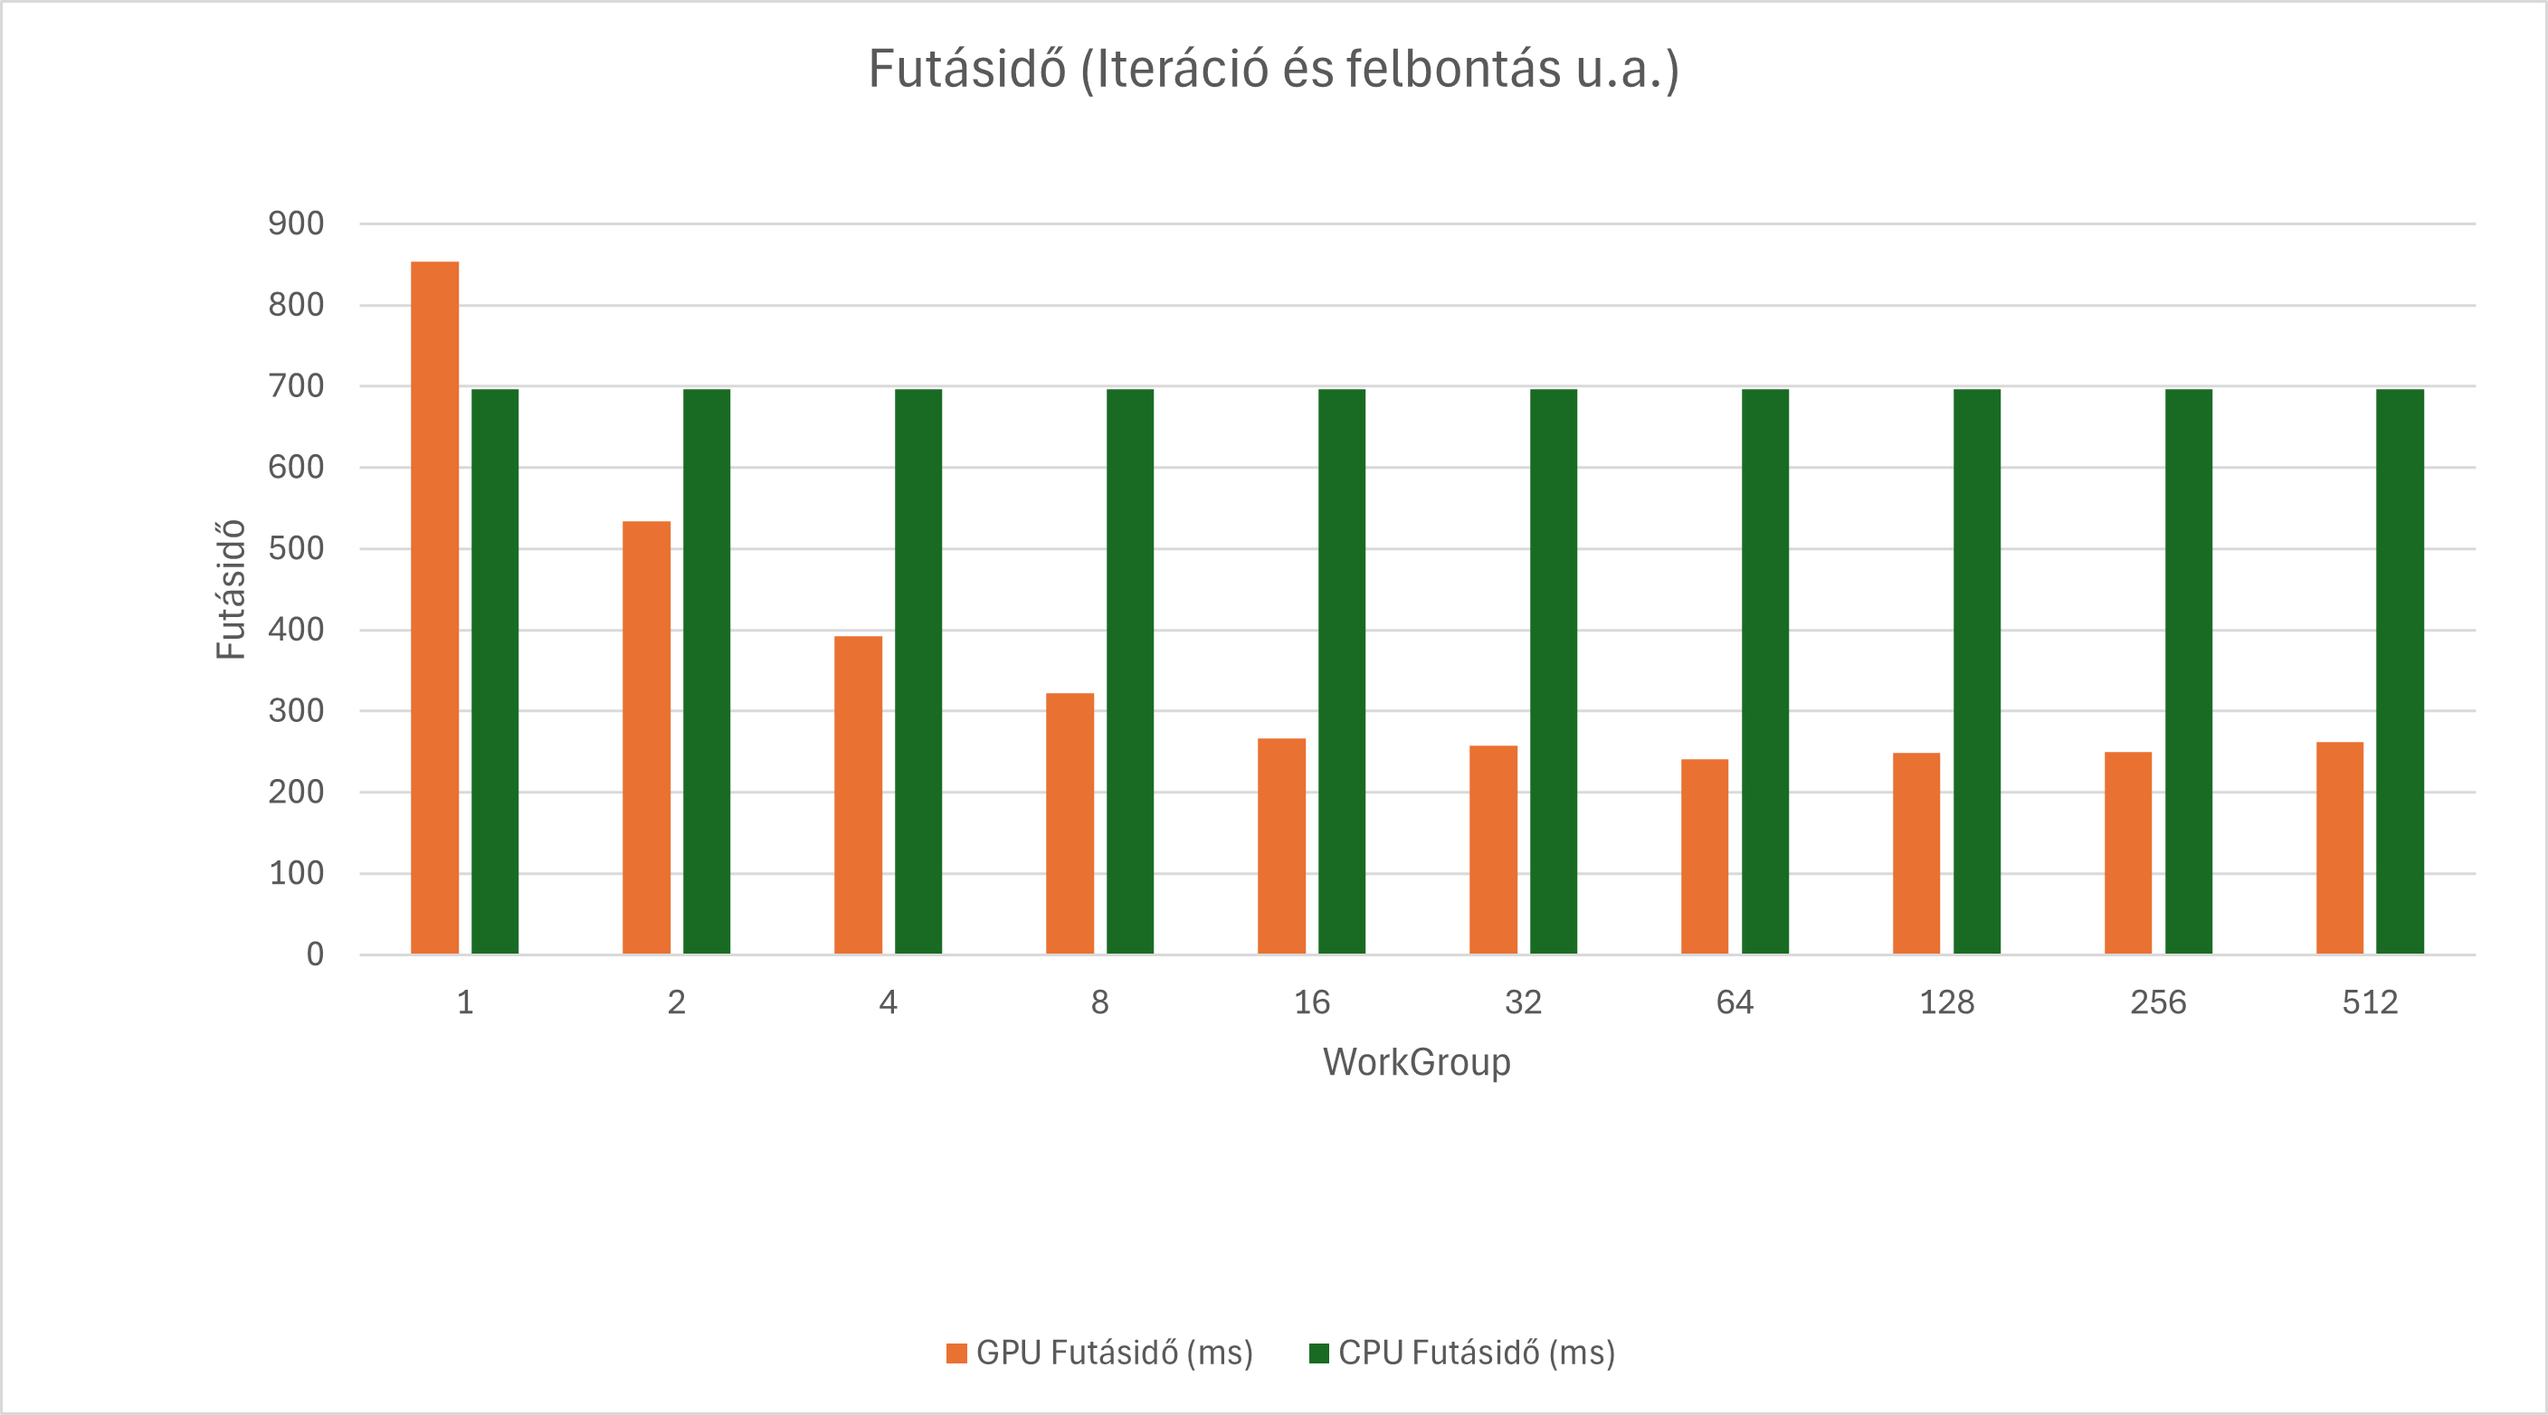
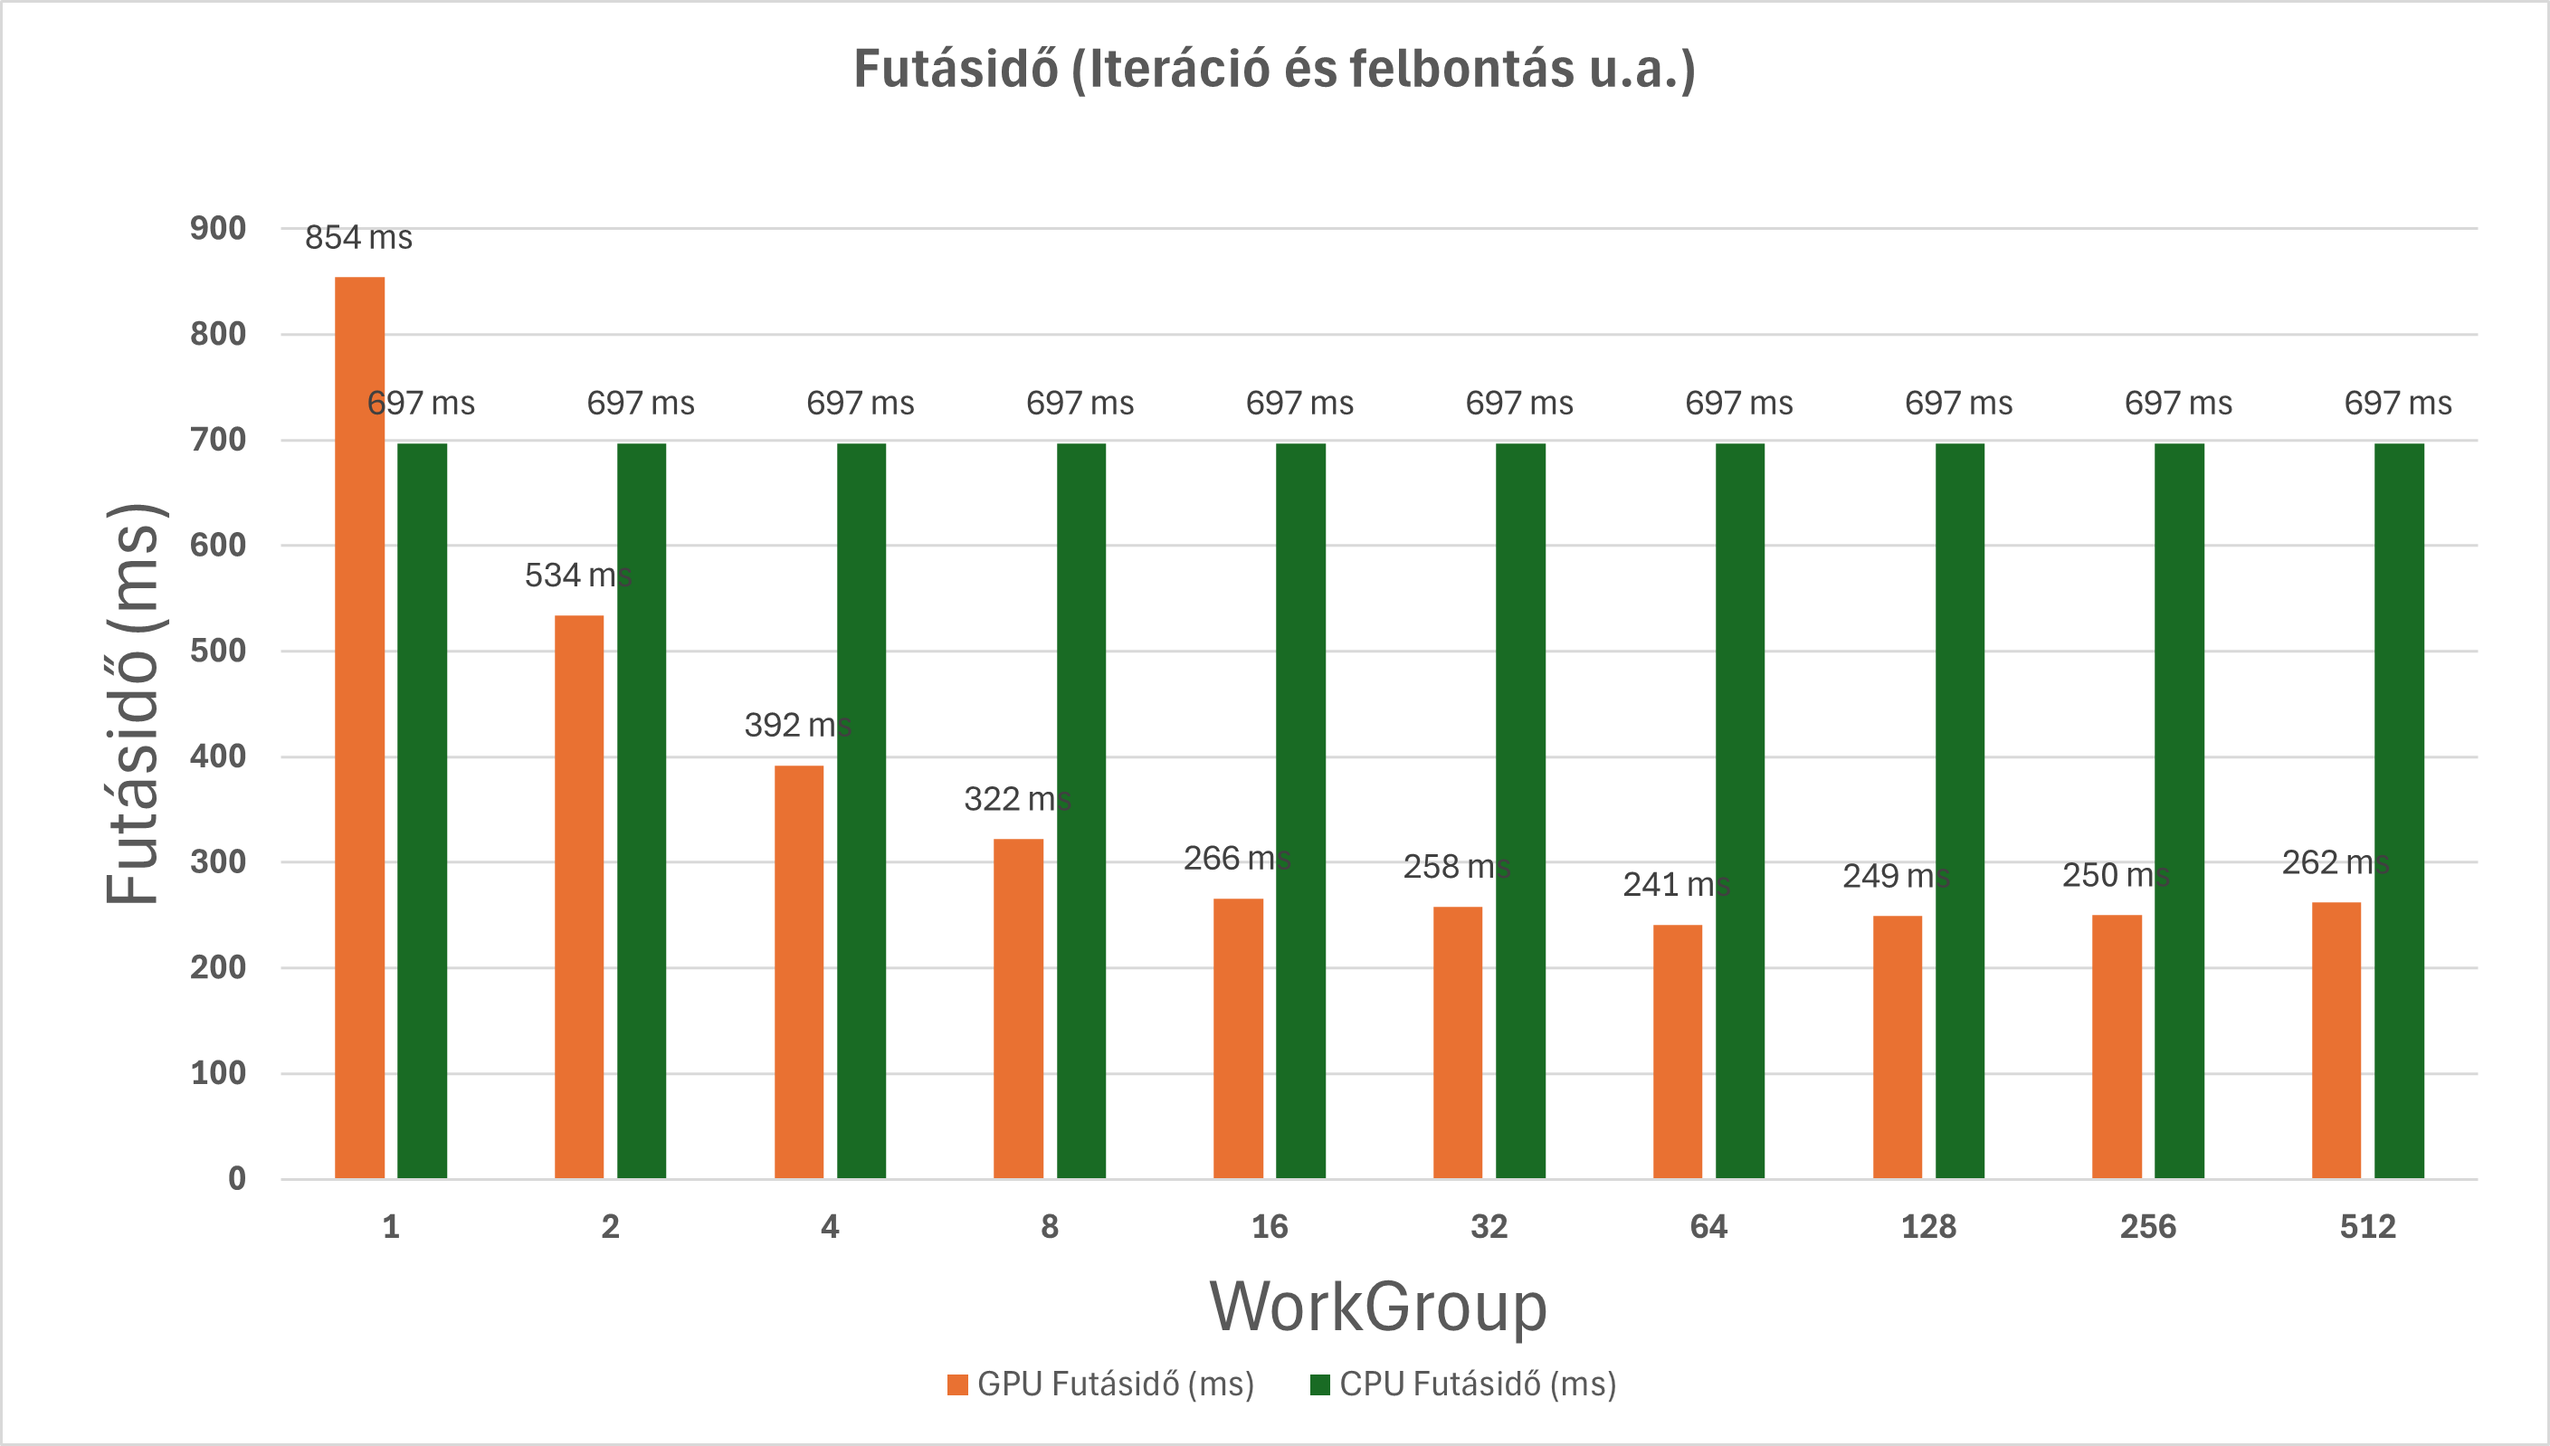
- readme fix, diagram fix

diff --git a/README.md b/README.md
@@ -16,61 +16,67 @@ C#-ban készült Mandelbrot-halmazon alapuló képgenerálás a választott fela
  **2048x1024 felbontásra: ~ 697 ms (ez az átlag marad végig amikor az iterációt és felbontást u.a. hagyjuk)** 
 
 
-**Iteráció és felbontás u.a.**			
-WorkerGroup  Iteráció  Felbontás   Futásidő (ms)  Szekvenciális (ms)  Gyorsítás (ms)  Gyorsítás (%)
-1            500       2048x1024   854            697                  -157            -22.53%
-2            500       2048x1024   534            697                   163             23.39%
-4            500       2048x1024   392            697                   305             43.76%
-8            500       2048x1024   322            697                   375             53.80%
-16           500       2048x1024   266            697                   431             61.84%
-32           500       2048x1024   258            697                   439             63.00%
-64           500       2048x1024   241            697                   456             65.42%
-128          500       2048x1024   249            697                   448             64.27%
-256          500       2048x1024   250            697                   447             64.13%
-512          500       2048x1024   262            697                   435             62.41%
+**Iteráció és felbontás u.a.**
+
+| WorkerGroup | Iteráció | Felbontás     | Futásidő (ms) | Szekvenciális (ms) | Gyorsítás (ms) | Gyorsítás (%) |
+|-------------|----------|---------------|---------------|---------------------|----------------|---------------|
+| 1           | 500      | 2048x1024     | 854           | 697                 | -157           | -22.53%       |
+| 2           | 500      | 2048x1024     | 534           | 697                 | 163            | 23.39%        |
+| 4           | 500      | 2048x1024     | 392           | 697                 | 305            | 43.76%        |
+| 8           | 500      | 2048x1024     | 322           | 697                 | 375            | 53.80%        |
+| 16          | 500      | 2048x1024     | 266           | 697                 | 431            | 61.84%        |
+| 32          | 500      | 2048x1024     | 258           | 697                 | 439            | 63.00%        |
+| 64          | 500      | 2048x1024     | 241           | 697                 | 456            | 65.42%        |
+| 128         | 500      | 2048x1024     | 249           | 697                 | 448            | 64.27%        |
+| 256         | 500      | 2048x1024     | 250           | 697                 | 447            | 64.13%        |
+| 512         | 500      | 2048x1024     | 262           | 697                 | 435            | 62.41%        |
 
 Ha a WorkerGroup méretét növeljük és az iterációt, felbontást ugyanakkorára hagyjuk akkor látható, hogy a futásidő fokozatosan csökken. mindaddig amíg a group mérete nem kezd el túl nagy lenni. Érdemes megjegyezni,  hogy szekvenciális (CPU) futtatáshoz képest a GPU-s megoldás jelentős gyorsulást ad, mivel a pixelek számítása egymás után helyett párhuzamosan történik. Ez különösen a Mandelbrot esetében hatékony, mert minden pixel számítása független a többitől.
 
-![Futásidő (Iteráció és felbontás u.a.) oszlopdiagramm](beadando\mandelbrot\meas_images\meas1_1.png)
-![Futásidő (Iteráció és felbontás u.a.) vonaldiagramm](beadando\mandelbrot\meas_images\meas1_2.png)
+![Futásidő (Iteráció és felbontás u.a.) oszlopdiagramm](beadando/mandelbrot/meas_images/meas1_1.png)
+![Futásidő (Iteráció és felbontás u.a.) vonaldiagramm](beadando/mandelbrot/meas_images/meas1_2.png)
 
-**Felbontás és a workerGroup u.a.**			
-WorkerGroup  Iteráció  Felbontás   Futásidő (ms)  Szekvenciális (ms)  Gyorsítás (ms)  Gyorsítás (%)
-128          50        2048x1024   252            117                  -135            -115.38%
-128          100       2048x1024   246            174                  -72             -41.38%
-128          200       2048x1024   239            320                   81              25.31%
-128          300       2048x1024   229            436                   207             47.48%
-128          500       2048x1024   248            666                   418             62.76%
-128          800       2048x1024   290            1016                  726             71.46%
-128          1000      2048x1024   296            1251                  955             76.34%
-128          1500      2048x1024   308            1848                  1540            83.35%
-128          2000      2048x1024   312            2467                  2155            87.38%
-128          2500      2048x1024   351            3078                  2727            88.63%
+**Felbontás és a workerGroup u.a.**	
+
+| WorkerGroup | Iteráció | Felbontás   | Futásidő (ms) | Szekvenciális (ms) | Gyorsítás (ms) | Gyorsítás (%) |
+|-------------|----------|-------------|---------------|---------------------|----------------|---------------|
+| 128         | 50       | 2048x1024   | 252           | 117                 | -135           | -115.38%      |
+| 128         | 100      | 2048x1024   | 246           | 174                 | -72            | -41.38%       |
+| 128         | 200      | 2048x1024   | 239           | 320                 | 81             | 25.31%        |
+| 128         | 300      | 2048x1024   | 229           | 436                 | 207            | 47.48%        |
+| 128         | 500      | 2048x1024   | 248           | 666                 | 418            | 62.76%        |
+| 128         | 800      | 2048x1024   | 290           | 1016                | 726            | 71.46%        |
+| 128         | 1000     | 2048x1024   | 296           | 1251                | 955            | 76.34%        |
+| 128         | 1500     | 2048x1024   | 308           | 1848                | 1540           | 83.35%        |
+| 128         | 2000     | 2048x1024   | 312           | 2467                | 2155           | 87.38%        |
+| 128         | 2500     | 2048x1024   | 351           | 3078                | 2727           | 88.63%        |
 
 Ha a WorkerGroup mérete és a felbontás ugyanakkora és az iterációt növeljük akkor látható hogy ameddig az iteráció nem túl nagy számú, addig gyorsul a futásidő, de ha már túl nagy lesz fokozatosan növekszik egyre jobban. Ez azért is megfigyelhető, mert a szekvenciális futásidő az iteráció növekedésével folyamatosan és jelentősen emelkedik.
 A párhuzamos megoldás ezzel szemben kevésbé érzékeny az iteráció növekedésére, ezért nagyobb iterációszámnál egyre nagyobb különbség alakul ki a szekvenciális és a párhuzamos végrehajtás között.
 
-![Futásidő (Felbontás és a workerGroup u.a.) oszlopdiagramm](beadando\mandelbrot\meas_images\meas2_1.png)
-![Futásidő (Felbontás és a workerGroup u.a.) vonaldiagramm](beadando\mandelbrot\meas_images\meas2_2.png)
+![Futásidő (Felbontás és a workerGroup u.a.) oszlopdiagramm](beadando/mandelbrot/meas_images/meas2_1.png)
+![Futásidő (Felbontás és a workerGroup u.a.) vonaldiagramm](beadando/mandelbrot/meas_images/meas2_2.png)
 
-**Iteráció és a workerGroup u.a.**			
-WorkerGroup  Iteráció  Felbontás   Futásidő (ms)  Szekvenciális (ms)  Gyorsítás (ms)  Gyorsítás (%)
-256          500       512x256     240            42                   -198            -471.43%
-256          500       1024x512    238            166                  -72             -43.37%
-256          500       1536x768    236            395                   159             40.25%
-256          500       2048x1024   257            706                   449             63.60%
-256          500       2560x1280   266            1056                  790             74.81%
-256          500       3072x1536   287            1480                  1193            80.61%
-256          500       3584x1792   295            1984                  1689            85.13%
-256          500       4096x2048   335            2583                  2248            87.03%
-256          500       4608x2304   353            3275                  2922            89.23%
-256          500       5120x2560   418            4044                  3626            89.66%
+**Iteráció és a workerGroup u.a.**
+
+| WorkerGroup | Iteráció | Felbontás   | Futásidő (ms) | Szekvenciális (ms) | Gyorsítás (ms) | Gyorsítás (%) |
+|-------------|----------|-------------|---------------|---------------------|----------------|---------------|
+| 256         | 500      | 512x256     | 240           | 42                  | -198           | -471.43%      |
+| 256         | 500      | 1024x512    | 238           | 166                 | -72            | -43.37%       |
+| 256         | 500      | 1536x768    | 236           | 395                 | 159            | 40.25%        |
+| 256         | 500      | 2048x1024   | 257           | 706                 | 449            | 63.60%        |
+| 256         | 500      | 2560x1280   | 266           | 1056                | 790            | 74.81%        |
+| 256         | 500      | 3072x1536   | 287           | 1480                | 1193           | 80.61%        |
+| 256         | 500      | 3584x1792   | 295           | 1984                | 1689           | 85.13%        |
+| 256         | 500      | 4096x2048   | 335           | 2583                | 2248           | 87.03%        |
+| 256         | 500      | 4608x2304   | 353           | 3275                | 2922           | 89.23%        |
+| 256         | 500      | 5120x2560   | 418           | 4044                | 3626           | 89.66%        |
 
 Ha a WorkerGroup mérete és az iteráció ugyanakkora, és a felbontást növeljük, akkor látható, hogy amíg a felbontás (pixelszám) nem túl nagy, addig a futásidő kedvezően alakul, azonban egy bizonyos méret felett a futásidő jelentősen romlani kezd.A szekvenciális végrehajtás ezzel szemben a felbontás növekedésével folyamatosan és meredeken növekszik, mivel minden pixel feldolgozása egymás után történik.
 Ennek következtében a gyorsítás kis felbontásoknál még alacsony vagy akár negatív is lehet, míg nagyobb felbontások esetén egyre jelentősebbé válik, mivel a párhuzamos feldolgozás előnye jobban kihasználható.
 
-![alt text](beadando\mandelbrot\meas_images\meas3_1.png)
-![alt text](beadando\mandelbrot\meas_images\meas3_2.png)
+![Futásidő (Iteráció és a workerGroup u.a.) oszlopdiagramm](beadando/mandelbrot/meas_images/meas3_1.png)
+![Futásidő (Iteráció és a workerGroup u.a.) vonaldiagramm](beadando/mandelbrot/meas_images/meas3_2.png)
 
 
 **Összegzés:**
